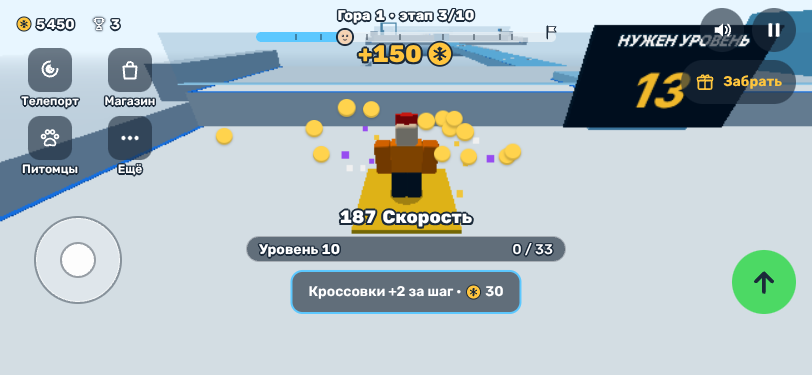
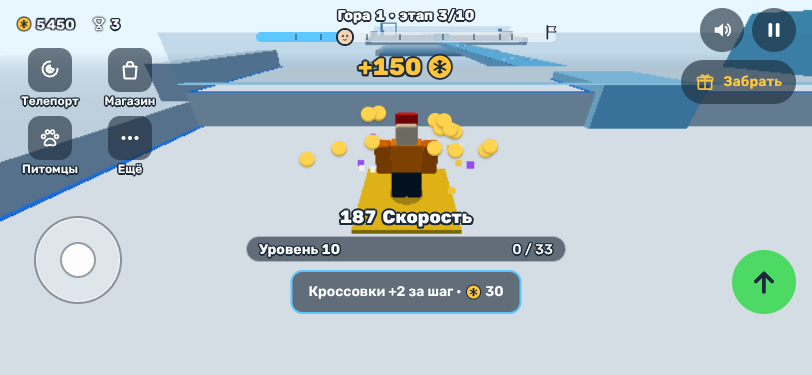
Круг правок MU, правка 4: «+150», «УРОВЕНЬ ВЫШЕ!» и надпись великана — в слоте под полосой этапов
Тосты телефона стояли на top 40 и при 130 % текста ложились на полосу этапов.
Теперь буквы тоста начинаются в 8 px под фактическим низом полосы (она растёт с
текстом), строки плотные — низ на 86 (MU-05); в 07 верх тоста 50.
e2e touch-mu-screens «round of fixes 4» и MU-05 — зелёные.

Claude-Session: https://claude.ai/code/session_01MGDb63ux6rQPMZQYBdfuka

diff --git a/e2e/touch-mu-screens.spec.ts b/e2e/touch-mu-screens.spec.ts
@@ -1,5 +1,5 @@
 import { test, expect, testState } from './fixtures.ts';
-import { forbiddenSymbols, hudBoxes, labelsOverHud, MU_VIEW, VISIBLE_H } from './mu-checks.ts';
+import { forbiddenSymbols, hudBoxes, labelsOverHud, MU_VIEW, scaleText, VISIBLE_H } from './mu-checks.ts';
 import { STAGES, threshold } from './lv-stage-data.ts';
 import stagesWorlds from '../content/avalanche/pace/stages/worlds.json' with { type: 'json' };
 import type { Page } from '@playwright/test';
@@ -198,6 +198,49 @@ test.describe('MU phone screens', () => {
     }
     await page.evaluate(() => window.__TEST__!.stick(0, 0));
     expect([...bad]).toEqual([]);
+  });
+
+  test('round of fixes 4 (staff 19.10): «+N» with the coin, «LEVEL UP!» at 130 % text and the giant\'s words stand in the slot, 8 px under the stage strip', async ({ page, openGame }) => {
+    await openGame('pace=stages');
+    const st = STAGES[0]!.stages[2]!;
+    await prepare(page, `window.__TEST__.setStat(${threshold(st.level + 2)});`);
+    /** The glyphs of the toast shown now (a range over its text: the line box is tighter than the letters) and the strip. */
+    const gap = (): Promise<{ text: string; top: number; bottom: number; strip: number }> =>
+      page.evaluate(() => {
+        const el = document.querySelector('[data-role="toast"]')!;
+        const range = document.createRange();
+        range.selectNodeContents(el);
+        const rs = Array.from(range.getClientRects()).filter((r) => r.width > 0);
+        const icon = el.querySelector('svg')?.getBoundingClientRect();
+        if (icon) rs.push(icon);
+        return {
+          text: el.textContent ?? '',
+          top: Math.min(...rs.map((r) => r.top)),
+          bottom: Math.max(...rs.map((r) => r.bottom)),
+          strip: document.querySelector('.hud-mountain')!.getBoundingClientRect().bottom,
+        };
+      });
+    // The coins of a stage finish: «+N» with the coin.
+    await page.evaluate((p) => window.__TEST__!.teleport(p.z, p.x, p.y + 1), st.pad);
+    await page.waitForFunction(() => window.__TEST__!.state().padsTaken > 0, undefined, { timeout: 20_000 });
+    await expect(page.locator('[data-role="toast"].shown .hud-toast-main svg')).toHaveCount(1);
+    const coins = await gap();
+    expect(coins.top - coins.strip, `«${coins.text}» under the strip`).toBeGreaterThanOrEqual(8);
+    await page.screenshot({ path: 'docs/evidence/MU/l3-stage-finish.png' });
+    // The giant's words and «LEVEL UP!» at 130 % text.
+    await scaleText(page, 1.3);
+    for (const [text, sub] of [['Обеги великана сбоку!', ''], ['УРОВЕНЬ ВЫШЕ!', 'Уровень 20']] as const) {
+      await expect(page.locator('[data-role="toast"].shown')).toHaveCount(0, { timeout: 10_000 });
+      await page.evaluate(([a, b]) => {
+        window.__TEST__!.showToast(a, 2, true);
+        if (b) document.querySelector('[data-role="toast"] .hud-toast-sub')!.textContent = b;
+      }, [text, sub] as const);
+      await page.waitForTimeout(350);
+      const g = await gap();
+      expect(g.text).toContain(text);
+      expect(g.top - g.strip, `«${text}» at 130 %: under the strip`).toBeGreaterThanOrEqual(8);
+      if (sub) await page.screenshot({ path: 'docs/evidence/MU/l4-level-up-130.png' });
+    }
   });
 
   test('MU-06 camp: «Camp · mountain 1», no shoes button, no ads or group buttons on the scene, bot names 11 px', async ({ page, openGame }) => {

diff --git a/src/styles.css b/src/styles.css
@@ -494,14 +494,16 @@ canvas.fallback {
 .hud.mu:not([data-slot='ads']) .hud-ads { display: none; }
 .hud.mu .hud-ad { min-height: 44px; padding: 0 18px; border: 0; border-radius: 12px; background: var(--mu-blue); color: #fff; font: 600 14px/1.2 var(--font); text-shadow: none; white-space: nowrap; display: flex; align-items: center; }
 /* Toasts in the slot: gold 24 px with the ink outline, the line under it 14 px; top 40, never over the hero. */
-.hud.mu .hud-toast, .hud.mu.plated .hud-toast { top: calc(40px + env(safe-area-inset-top)); transform: translateX(-50%) scale(0.9); padding: 0; background: none; border-radius: 0; color: var(--mu-gold); font-size: 24px; line-height: 28px; font-weight: 800; text-shadow: var(--mu-o2); z-index: 4; }
+/* Round of fixes MU (staff 19.10: the toast lay on the stage strip at 130 % text): in the slot, 8 px under the strip
+   (top 50), its lines tight so the bottom stays at 86 — a bigger text grows over its line box, never up onto the strip. */
+.hud.mu .hud-toast, .hud.mu.plated .hud-toast { top: calc(50px + env(safe-area-inset-top)); transform: translateX(-50%) scale(0.9); padding: 0; background: none; border-radius: 0; color: var(--mu-gold); font-size: 24px; line-height: 24px; font-weight: 800; text-shadow: var(--mu-o2); z-index: 4; }
 .hud.mu .hud-toast.shown { transform: translateX(-50%) scale(1); }
 /* One message at a time: the toast leaves at once, no fade over the next message. */
 .hud.mu .hud-toast { transition: transform 0.2s; }
-.hud.mu .hud-toast-sub { font-size: 14px; line-height: 18px; color: #fff; text-shadow: var(--mu-o15); }
+.hud.mu .hud-toast-sub { font-size: 14px; line-height: 10px; color: #fff; text-shadow: var(--mu-o15); }
 .hud.mu:not([data-slot='toast']) .hud-toast { opacity: 0; }
 .hud.mu.urgent .hud-toast.shown { opacity: 1; }
-.hud.mu.levels .hud-toast { top: calc(40px + env(safe-area-inset-top)); }
+.hud.mu.levels .hud-toast { top: calc(50px + env(safe-area-inset-top)); }
 /* Sound and pause: circles 44 at the top right; the gift plaque 44 high under them (top 60). */
 .hud.mu .hud-pause, .hud.mu .hud-sound { width: 44px; height: 44px; top: calc(8px + env(safe-area-inset-top)); background: var(--mu-plaque); color: #fff; }
 .hud.mu .hud-pause { right: calc(16px + env(safe-area-inset-right)); }

diff --git a/src/ui/hud.ts b/src/ui/hud.ts
@@ -243,8 +243,11 @@ const MENU_BOTTOM = 0.72;
  * are read this often (ms). */
 const LABEL_GAP = 8;
 const RECTS_MS = 150;
-/** The side margin of the phone frame (docs/07-mobile-ui.md, «Поля кадра»). */
+/** The side margin of the phone frame (docs/07-mobile-ui.md, «Поля кадра»); the top of the message slot; the letters
+ * of Rubik are this many em tall (ascent and descent). */
 const EDGE_MU = 16;
+const SLOT_TOP_MU = 50;
+const GLYPH_EM = 1.2;
 /** MU-02 (l1-run-hud-a): the stick ring 84 px, its centre at (76, 258) — the ring from y 216, 40 px under the column. */
 const MU_STICK = 84;
 const MU_STICK_X = 76;
@@ -559,10 +562,21 @@ export function createHud(host: HTMLElement, opts: HudOptions): Hud {
   type Toast = { text: string; sec: number; gold: boolean; sub: string | undefined; onShow?: (() => void) | undefined };
   const pendingToasts: Toast[] = [];
   let currentToast: Toast | null = null;
+  // Round of fixes MU (staff 19.10: «+150» and «LEVEL UP!» at 130 % text lay on the stage strip): the phone toast's
+  // letters start 8 px under the strip as it is now (it grows with the text) — its line box is tighter than the letters.
+  const placeMuToast = (): void => {
+    if (!opts.mu) return;
+    const strip = mountain.getBoundingClientRect().bottom - root.getBoundingClientRect().top;
+    const cs = getComputedStyle(toastMain);
+    const fs = Number.parseFloat(cs.fontSize) || 0;
+    const lh = Number.parseFloat(cs.lineHeight) || fs;
+    toastEl.style.top = `${Math.ceil(Math.max(SLOT_TOP_MU, strip + LABEL_GAP) + Math.max(0, (fs * GLYPH_EM - lh) / 2))}px`;
+  };
   const showToast = (text: string, sec: number, gold: boolean, sub: string | undefined, onShow?: () => void): void => {
     currentToast = { text, sec, gold, sub };
     setRich(toastMain, text);
     toastSub.textContent = sub ?? '';
+    placeMuToast();
     toastEl.classList.toggle('gold', gold);
     toastEl.classList.remove('shown');
     void toastEl.offsetWidth;

diff --git a/progress.md b/progress.md
@@ -2,12 +2,12 @@
 
 ## Состояние
 - Веха: MU «Мобильный интерфейс» — круг правок по предприёмке штаба 19.10 (8 пунктов), сессия от `main` e6aba09
-- Сделано в круге: 1 — великан ловит «вперёд» на любой встрече, падение сразу за пройденным великаном не катит к нему (Q-MU-12); 2 — весь экран на сенсорном экране; 3 — подписи мира не ближе 8 px к HUD, табличка рубежа на столбе справа
+- Сделано в круге: 1 — великан ловит «вперёд» на любой встрече, падение сразу за пройденным великаном не катит к нему (Q-MU-12); 2 — весь экран на сенсорном экране; 3 — подписи мира не ближе 8 px к HUD, табличка рубежа на столбе справа; 4 — тосты под полосой этапов
 - Решения: Q-MU-11 — штаб: везде «+N за шаг» (правка 6); Q-MU-12 — сборщиком (А); Q-MU-5, Q-MU-6 ждут продюсера
-- Дальше: правки 4–8, один полный verify, итог, push в `main`
+- Дальше: правки 5–8, один полный verify, итог, push в `main`
 - Устройство: облачная сессия, ветка `claude/avalanche-mobile-ui-fixes-xvy0nu`, итог — `git push origin HEAD:main`
 - Последний verify: EXIT=0 на e6aba09 (итог MU, `docs/evidence/MU/verify.txt`); в круге — verify:fast после каждой правки
-- Статус: в работе — правки 4
+- Статус: в работе — правки 5
 
 Пишет сборщик после каждой фичи и в конце каждой вехи. Новые записи — сверху, под заголовком «Записи». Читает продюсер: коротко, по-русски, сначала результат. В других документах этот файл называется «журнал».
 
@@ -50,6 +50,11 @@
 ```
 
 ## Записи
+
+### 2026-10-19 · Круг правок MU, правка 4 · тосты и «+N» под полосой этапов
+- Сделано: тосты телефона («+150» с монетой, «УРОВЕНЬ ВЫШЕ!», «Обеги великана сбоку!») стоят в слоте: буквы начинаются в 8 px под фактическим низом полосы этапов (при 130 % текста полоса растёт — тост тоже уходит ниже); строки тоста плотные, низ на 86 (MU-05). В `07` верх тоста — 50
+- Тесты: e2e `touch-mu-screens` «round of fixes 4» (финиш, надпись великана и «УРОВЕНЬ ВЫШЕ!» при 130 %: зазор ≥ 8) и MU-05 (низ тоста ≤ 86) — 2 из 2; verify:fast — EXIT=0 (Vitest 531 из 531)
+- Разведка: надпись великана — это обычный тост `boss.start`; все тосты — один узел `hud-toast`, правка в одном месте
 
 ### 2026-10-19 · Круг правок MU, правки 1–3 · великан, весь экран, подписи мира под HUD
 - Правка 1 (великан). Причина «прошёл 2 из 4»: на горе 1 уровни дешёвые — ко второй встрече герой на 4 уровня выше этапа, и запас `giantSlipMargin` пропускал бег прямо. Причина отката после прохода: первая трещина этапа 3 (бег без прыжка) и правило 22.9 «упал на дальнем этапе — этап назад», то есть снова к великану; так по кругу. Сделано: `giantSlipMargin` убран — «вперёд» ловится на любом уровне; падение на этапе сразу за пройденным в этой попытке великаном катит к началу этого этапа (`caught.pastGiant: "own"`, Q-MU-12). Кнопка «Продолжить с этапа N» на телефоне есть (e2e); в сценарии штаба её перекрывали тосты великана в слоте — сценария больше нет
